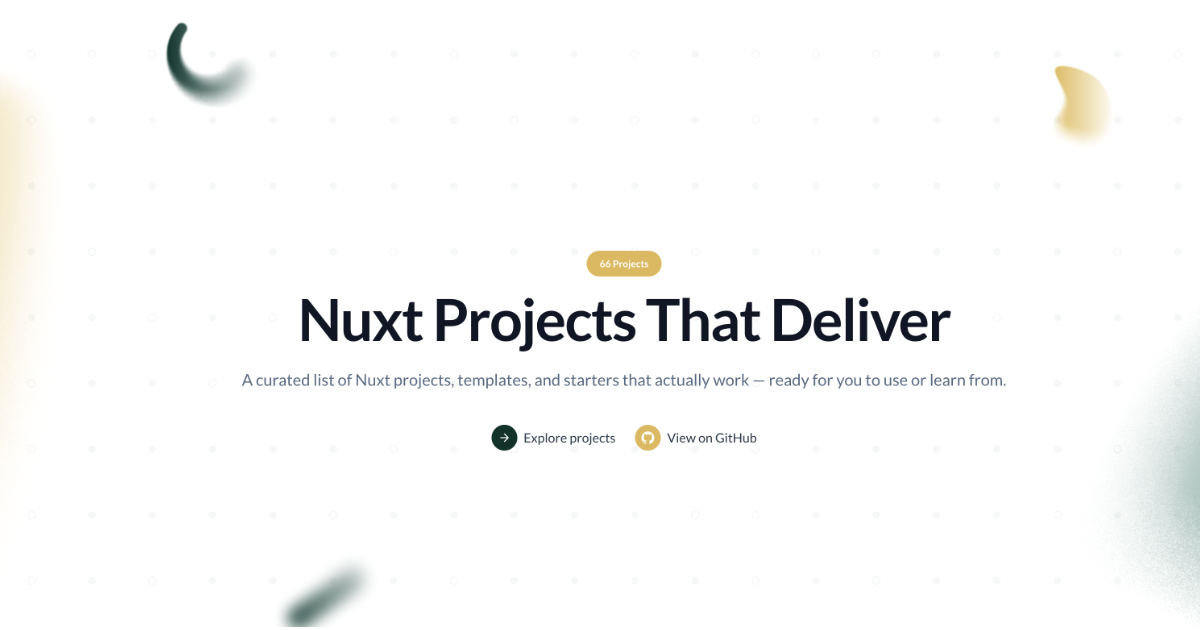
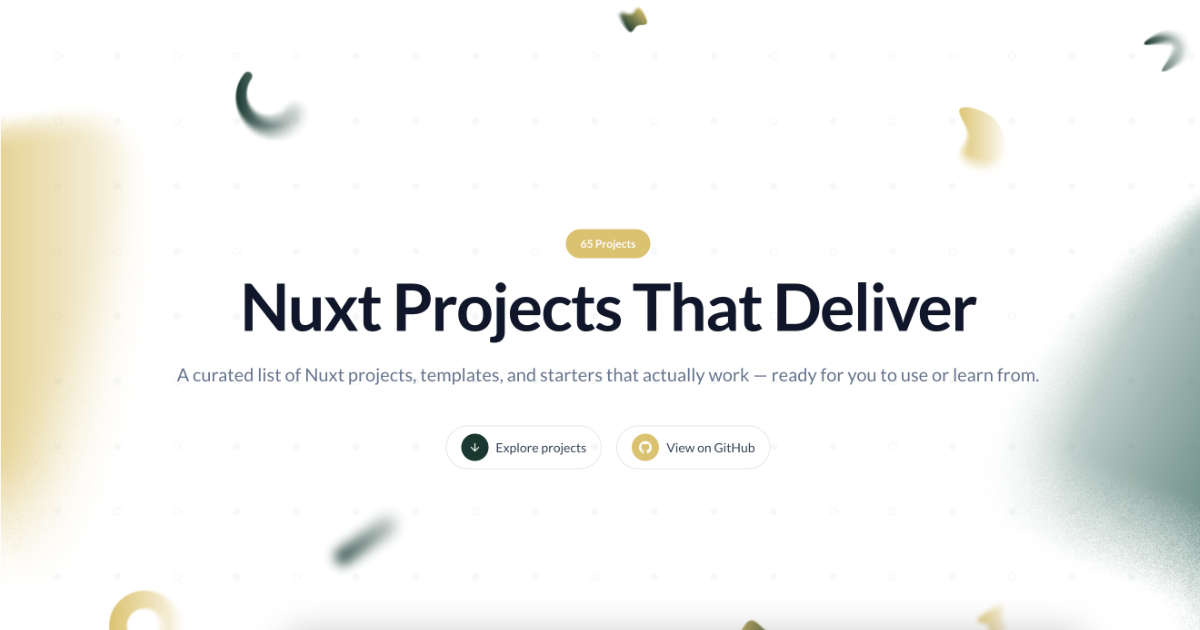
Final update

diff --git a/server/tasks/generate-readme.ts b/server/tasks/generate-readme.ts
@@ -1,6 +1,8 @@
 import { writeFile } from 'fs/promises'
 import { projects } from '@@/data/all'
 import type { Project } from '@@/types/project'
+import { PROJECT_CATEGORIES } from '~~/types/category';
+import type { CategorySlug } from '~~/types/category';
 
 const OG_IMAGE = 'https://awesome-nuxt.dev/og-image.png'
 const SITE_URL = 'https://awesome-nuxt.dev'
@@ -17,6 +19,12 @@ function groupByCategory(projects: Project[]) {
     grouped[category].push(project)
   }
   return grouped
+}
+
+function getCategory(category: CategorySlug) {
+  return category
+    ? PROJECT_CATEGORIES[category]
+    : null;
 }
 
 function capitalize(str: string) {
@@ -80,14 +88,16 @@ function generateMarkdown() {
     `</a>\n`
   )
 
-  lines.push('# Awesome Nuxt\n')
+  lines.push('# 🚀 Awesome Nuxt\n')
   lines.push('A curated list of Nuxt projects, templates, and starters that actually work — ready for you to use or learn from.')
   lines.push('> **Note:** This excludes Nuxt modules. Visit [https://nuxt.com/modules](https://nuxt.com/modules) for official modules.\n')
 
   const grouped = groupByCategory(projects)
 
   for (const [category, items] of Object.entries(grouped)) {
-    lines.push(`## ${capitalize(category)}\n`)
+    const cat = getCategory(category as CategorySlug);
+    const catName = cat?.name ? capitalize(cat.name) : capitalize(category);
+    lines.push(`## ${catName}\n`)
     for (const project of items) {
       lines.push(
         `- [${project.name}](${project.url})  \n  ${escapeMarkdown(project.description)}  \n`

diff --git a/README.md b/README.md
@@ -1,11 +1,11 @@
-<a href="https://awesome-nuxt.dev" target="_blank" rel="noopener noreferrer"><img src="https://awesome-nuxt.dev/og-image.png" alt="Awesome Nuxt" width="1200" /></a>
+<a href="https://awesome-nuxt.dev" target="_blank" rel="noopener noreferrer"><img src="https://awesome-nuxt.dev/og-image.png" alt="Awesome Nuxt" width="100%" /></a>
 
-# Awesome Nuxt
+# 🚀 Awesome Nuxt
 
 A curated list of Nuxt projects, templates, and starters that actually work — ready for you to use or learn from.
-> **Note:** This excludes Nuxt modules. Visit [modules.nuxt.com](https://nuxt.com/modules) for official modules.
+> **Note:** This excludes Nuxt modules. Visit [https://nuxt.com/modules](https://nuxt.com/modules) for official modules.
 
-## Ai
+## AI & Chatbots
 
 - [Nuxt UI Chat](https://github.com/HugoRCD/nuxt-ui-chat)  
   A modern, full-featured AI chatbot application built with Nuxt 3, Nuxt UI Pro, and the Vercel AI SDK v5. Features real-time streaming, multiple AI models support via AI Gateway, persistent chat history with PostgreSQL, and a beautiful responsive interface.  
@@ -16,7 +16,7 @@ A curated list of Nuxt projects, templates, and starters that actually work — 
 - [Chat with PDF](https://github.com/RihanArfan/chat-with-pdf)  
   Chat with PDF is a full-stack AI-powered application that lets you to ask questions to PDF documents.  
 
-## Template
+## Templates
 
 - [Canvas template](https://github.com/HugoRCD/canvas)  
   Canvas Portfolio is a fully customizable i18n portfolio template built with Nuxt and Nuxt UI, designed to help you showcase your work, testimonials, and key information with ease. The template integrates with Nuxt Studio for a smooth editing experience, while leveraging Nuxt Content for content management. Built with performance, flexibility, and responsiveness in mind, Canvas Portfolio provides a robust foundation for developers and creatives alike.  
@@ -42,7 +42,7 @@ A curated list of Nuxt projects, templates, and starters that actually work — 
 - [HR Folio](https://github.com/HugoRCD/hr-folio)  
   This is the code for my personal portfolio built with Nuxt and Tailwind CSS.  
 
-## Starter
+## Starter Kits
 
 - [WXT + Nuxt UI v3 Starter](https://github.com/HugoRCD/wxt-nuxt-ui-starter)  
   A minimal starter template for building web extensions with WXT and Nuxt UI v3. This template provides a streamlined setup for developers who want to create beautiful, accessible browser extensions using Vue 3 and the latest version of Nuxt UI..  
@@ -133,9 +133,6 @@ A curated list of Nuxt projects, templates, and starters that actually work — 
 
 - [Nuxt Multisite Inheritance](https://github.com/filrak/nuxt-layers-multisite)  
   This template shows how to approach a problem of unifying multiple applications with a sgnificant amount of shared functionalities on the UI/feature layer.  
-
-- [Chat with PDF](https://github.com/filrak/nuxt-layers-multisite)  
-  Chat with PDF is a full-stack AI-powered application that lets you to ask questions to PDF documents.  
 
 - [NuxtCommerce](https://github.com/zackha/nuxtcommerce)  
   An open-source, dynamic e-commerce solution powered by Nuxt 3 and GraphQL, headless storefront replacement for Woocommerce. Featuring a user interface in the style of Pinterest and fully customizable (Vue, Nuxt3).  
